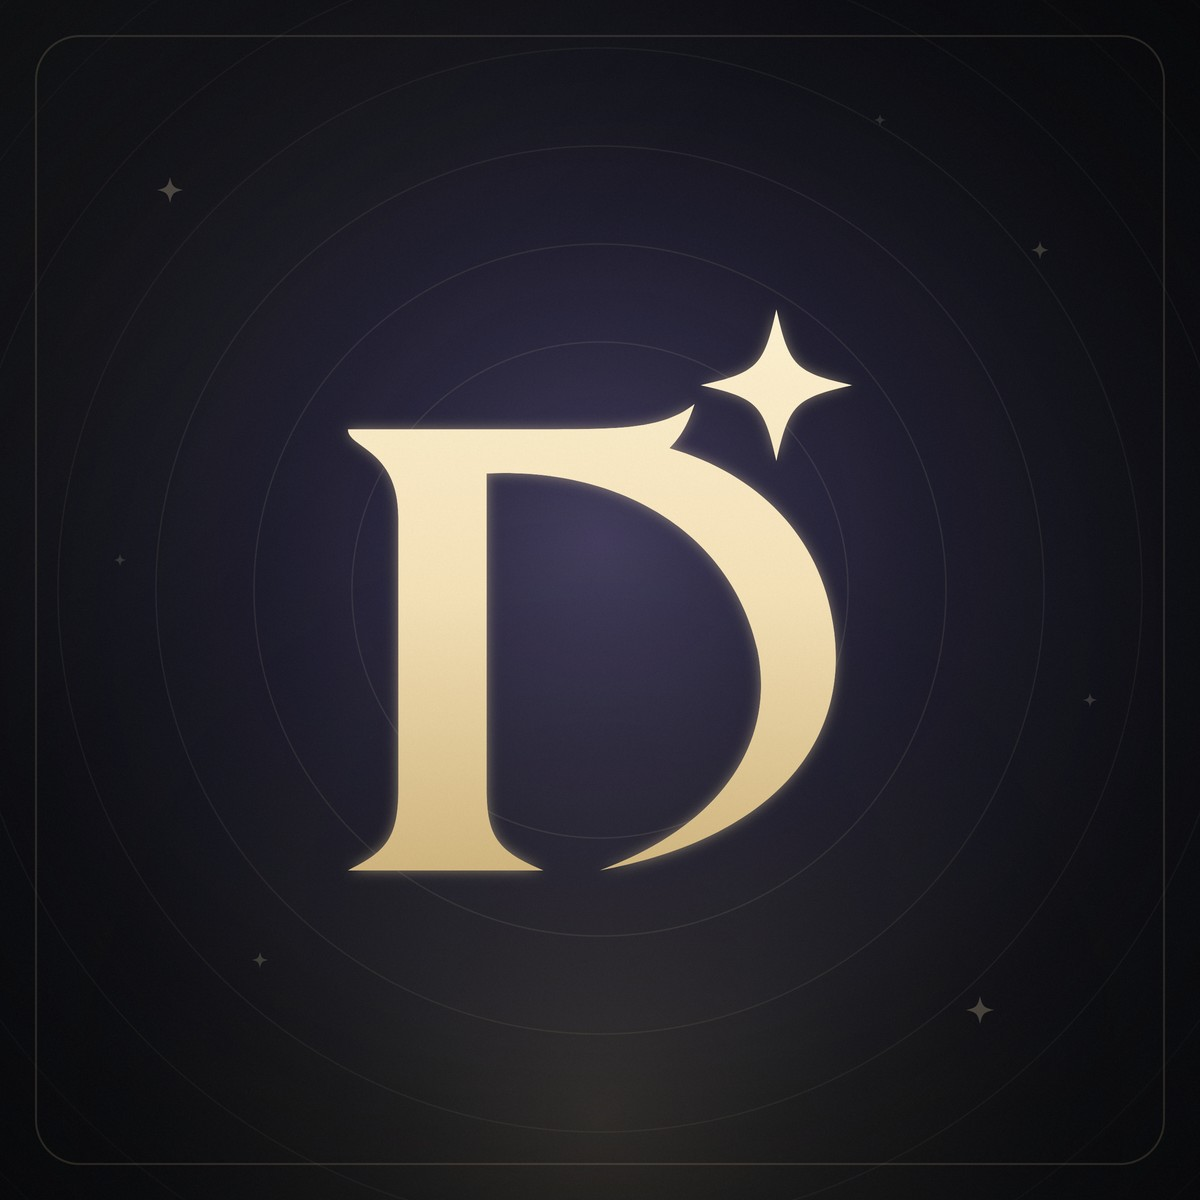
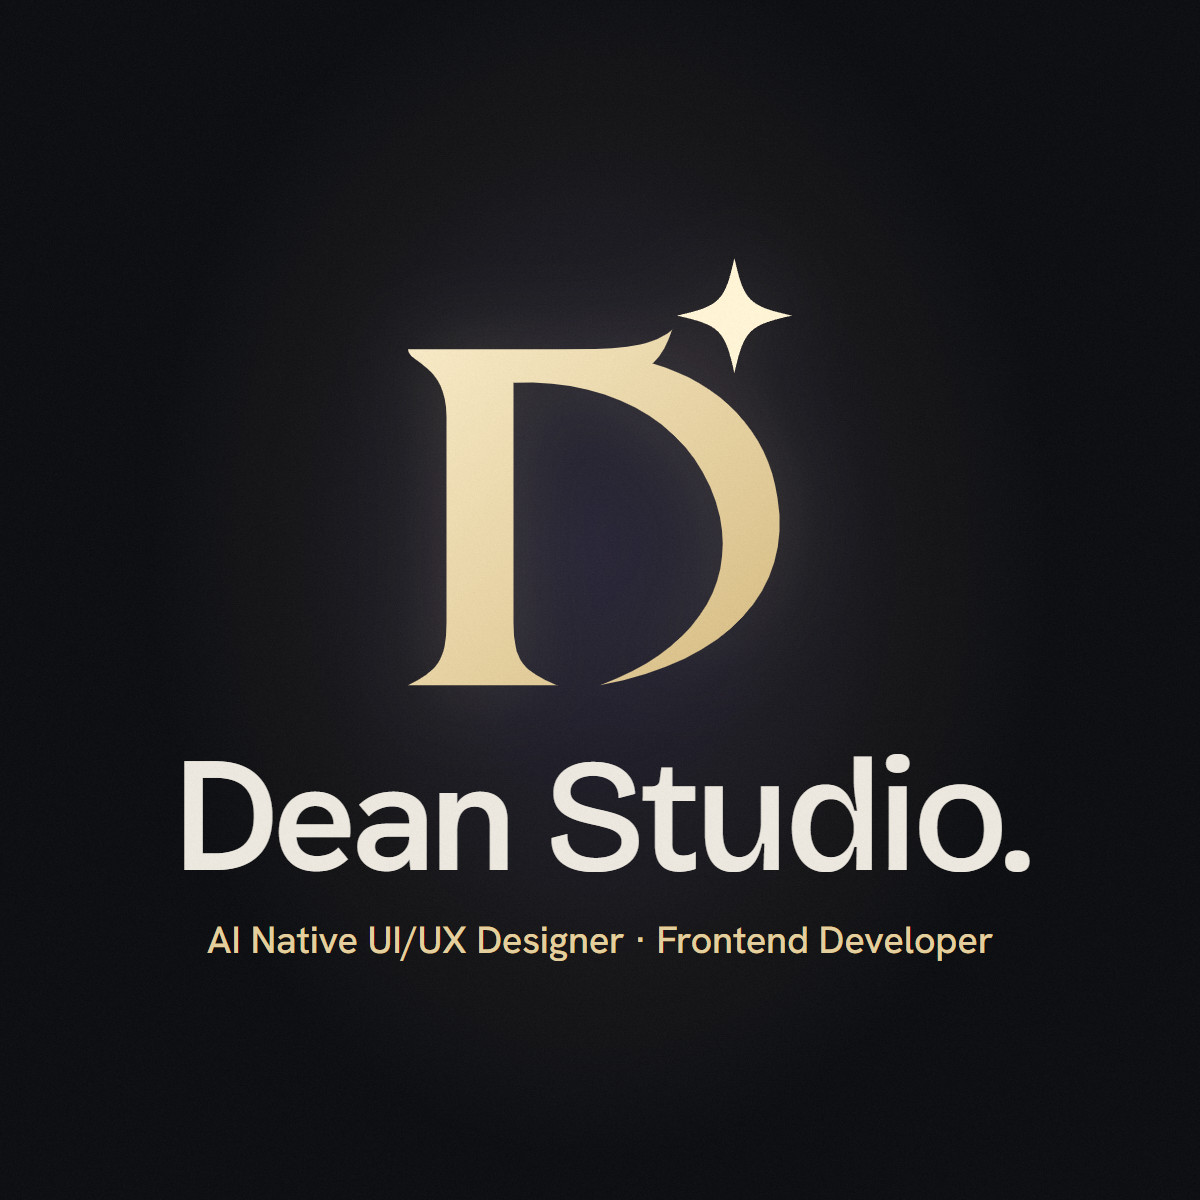
New share cards: the mark, the name and the title
- Both og images are one simple centred design: the D-star mark, Dean Studio, and the title AI Native UI/UX Designer, Frontend Developer
- Updated alt texts and bumped the preview cache suffix to v=3
- docs/device-design.md section 43

diff --git a/index.html b/index.html
@@ -11,7 +11,7 @@
   <meta name="color-scheme" content="dark" />
   <meta name="author" content="Dean Studio" />
   <!-- Share cards. Two images, in this order: a 1:1 logo card (og-image-square.jpg, 1200 x 1200: the shape
-       WhatsApp and Telegram show), then the wide card with the device (og-image.jpg, 1200 x 630). Apps that take
+       WhatsApp and Telegram show), then the wide card (og-image.jpg, 1200 x 630): the same mark, name and title, centred. Apps that take
        the first tag get the square; X uses the wide one (twitter:image). The ?v= suffix busts preview caches. -->
   <meta property="og:type" content="website" />
   <meta property="og:site_name" content="Dean Studio" />
@@ -19,21 +19,21 @@
   <meta property="og:url" content="https://www.dean-fi.my/" />
   <meta property="og:title" content="Dean Studio · AI-native design and frontend for Web3" />
   <meta property="og:description" content="AI-native designer who also ships the frontend, with no handoff between design and build. UI/UX and creative design that make Web3 products easy to understand." />
-  <meta property="og:image" content="https://www.dean-fi.my/og-image-square.jpg?v=2" />
+  <meta property="og:image" content="https://www.dean-fi.my/og-image-square.jpg?v=3" />
   <meta property="og:image:type" content="image/jpeg" />
   <meta property="og:image:width" content="1200" />
   <meta property="og:image:height" content="1200" />
-  <meta property="og:image:alt" content="The Dean Studio logo: a champagne D with a four-point star, on a dark violet background." />
-  <meta property="og:image" content="https://www.dean-fi.my/og-image.jpg?v=2" />
+  <meta property="og:image:alt" content="Dean Studio: the champagne D and star logo above the name Dean Studio and the title AI Native UI/UX Designer, Frontend Developer." />
+  <meta property="og:image" content="https://www.dean-fi.my/og-image.jpg?v=3" />
   <meta property="og:image:type" content="image/jpeg" />
   <meta property="og:image:width" content="1200" />
   <meta property="og:image:height" content="630" />
-  <meta property="og:image:alt" content="Dean Studio: a 3D hardware-wallet-style device showing the D and star logo, beside the words Dean Studio." />
+  <meta property="og:image:alt" content="Dean Studio: the champagne D and star logo above the name Dean Studio and the title AI Native UI/UX Designer, Frontend Developer." />
   <meta name="twitter:card" content="summary_large_image" />
   <meta name="twitter:title" content="Dean Studio · UI/UX, frontend and creative design for Web3" />
   <meta name="twitter:description" content="AI-native designer who also ships the frontend, with no handoff between design and build. UI/UX and creative design that make Web3 products easy to understand." />
-  <meta name="twitter:image" content="https://www.dean-fi.my/og-image.jpg?v=2" />
-  <meta name="twitter:image:alt" content="Dean Studio: a 3D hardware-wallet-style device showing the D and star logo, beside the words Dean Studio." />
+  <meta name="twitter:image" content="https://www.dean-fi.my/og-image.jpg?v=3" />
+  <meta name="twitter:image:alt" content="Dean Studio: the champagne D and star logo above the name Dean Studio and the title AI Native UI/UX Designer, Frontend Developer." />
   <link rel="icon" href="/favicon.svg" type="image/svg+xml" />
   <link rel="icon" href="/icon-192.png" type="image/png" sizes="192x192" />
   <link rel="apple-touch-icon" href="/apple-touch-icon.png" />

diff --git a/docs/device-design.md b/docs/device-design.md
@@ -635,3 +635,7 @@ Thumbnails are composed from screenshots (`scripts/media/walkthrough.mjs --shot 
 - **The 3D scene rests while a clip plays:** `detail.onMotion` tells `main.ts`, which calls `stage.setActive(false)`; pausing the clip, closing the panel or opening another project resumes it (checked: 0 rendered frames while it plays, about 190 per 1.2 s when paused, 0 again on resume). The wallet beside the panel holds its last frame meanwhile.
 
 **ENI** does not scroll normally (a fixed 800 px document, 12 sections that change on wheel input), so `walkthrough.mjs --wheel 8 --hold 2300` sends real wheel events. ASEAN Labs was revamped (yellow, Next.js pages router, Tailwind, its own WebGL, no GSAP): stack Next.js, React, Tailwind CSS, WebGL; thumbnails and clip remade.
+
+## 43. Share cards: the mark, the name and the title (2026-10-22, Dean's request)
+
+Both share images are one simple, centred design: the champagne D-star mark above "Dean Studio." (Hanken Grotesk 600 and Bricolage Grotesque 500, as in the hero) and the title "AI Native UI/UX Designer · Frontend Developer" in champagne, on the site's dark background with its soft violet glow. `og-image.jpg` (1200 × 630, X and others) and `og-image-square.jpg` (1200 × 1200, WhatsApp and Telegram) replace the old pair, which showed the first-generation device and, on the square, no name. They are rendered from HTML in headless Chrome and saved as JPEGs with a touch of noise so the dark gradient does not band (95 KB and 155 KB). The mark is nudged 2 % left because its visual centre sits right of its box (`LOGO_CENTER`). The image alt texts and the `?v=` suffix (now 3, to break preview caches) are updated in `index.html`. The third role (Creative Designer) is left off to keep the line legible at thumbnail size. Platforms cache previews, so a shared link can show the old card for a while after deploy.
